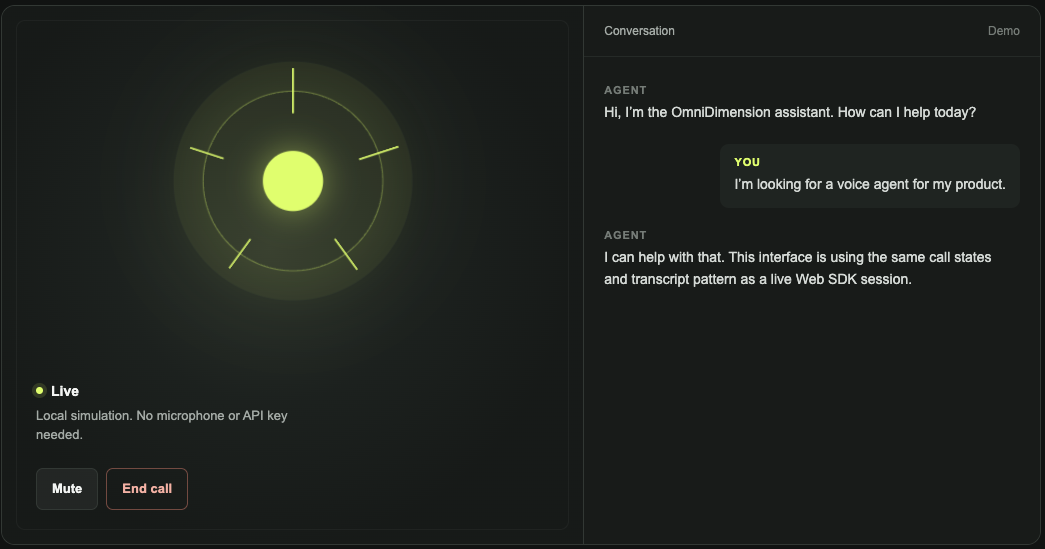
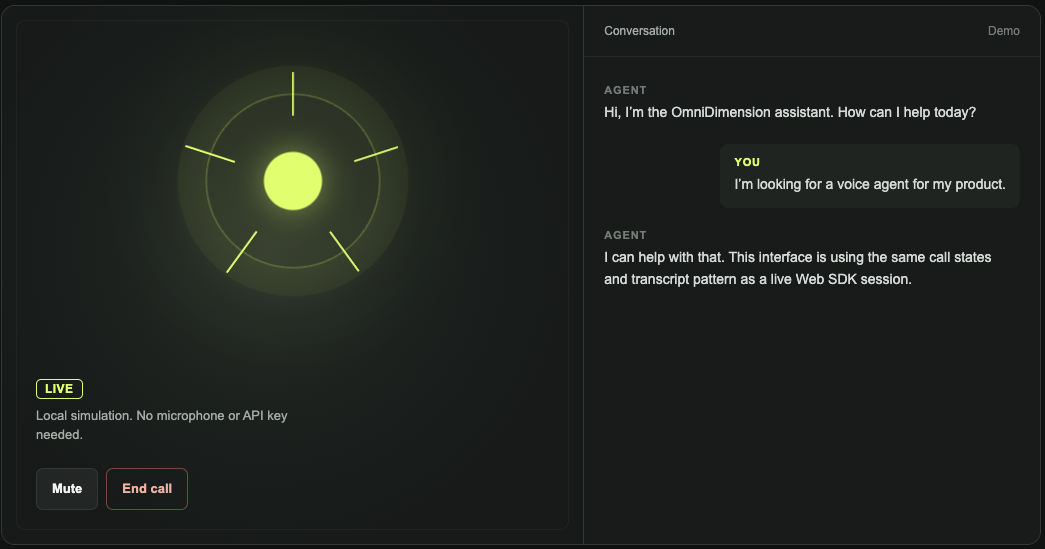
fix: state reads as a bordered label, not a coloured dot (#35)
A 7px dot carried the entire call state, so 'is this live' depended on telling
apart accent green, amber and red at that size. Colour-blind users get nothing
from it, and the label beside it was the only real signal.

Now the label itself is the control: a bordered uppercase pill that takes the
state colour on its border and text. Same information, readable without relying
on hue, and it still reads at a glance. README screenshot refreshed to match.

diff --git a/web-voice/src/app/styles.css b/web-voice/src/app/styles.css
@@ -48,7 +48,7 @@ h1 { max-width: 570px; margin: 0; font-size: clamp(2.5rem, 6vw, 4.7rem); letter-
 .orb-active span { animation: ripple 1.1s ease-in-out infinite alternate; }.orb-active span:nth-child(2) { animation-delay: .12s; }.orb-active span:nth-child(3) { animation-delay: .26s; }.orb-active span:nth-child(4) { animation-delay: .36s; }.orb-active span:nth-child(5) { animation-delay: .46s; }
 .orb-muted { border-color: rgba(239, 124, 107, .5); background: rgba(239, 124, 107, .08); }.orb-muted::before, .orb-muted span { background: var(--danger); }.orb-muted { box-shadow: 0 0 0 22px rgba(239, 124, 107, .025); }
 @keyframes breathe { 50% { transform: scale(1.04); } } @keyframes ripple { to { height: 52px; opacity: 1; } }
-.call-meta { position: relative; z-index: 1; margin-top: auto; }.status-line { display: flex; align-items: center; gap: 8px; font-size: 14px; font-weight: 600; }.status-dot { width: 7px; height: 7px; border-radius: 50%; background: var(--quiet); }.status-active { background: var(--accent); box-shadow: 0 0 0 4px rgba(216, 255, 80, .13); }.status-connecting { background: #ffca58; }.status-error { background: var(--danger); }.call-meta p { max-width: 290px; margin: 7px 0 0; color: var(--muted); font-size: 13px; line-height: 1.5; }
+.call-meta { position: relative; z-index: 1; margin-top: auto; }.status-line { display: flex; align-items: center; font-size: 14px; font-weight: 600; }.status-pill { border: 1px solid var(--quiet); border-radius: 5px; padding: 2px 8px; color: var(--quiet); font-size: 12px; font-weight: 700; letter-spacing: .04em; text-transform: uppercase; }.status-active { border-color: var(--accent); color: var(--accent); }.status-connecting { border-color: #ffca58; color: #ffca58; }.status-error { border-color: var(--danger); color: #ffada1; }.call-meta p { max-width: 290px; margin: 7px 0 0; color: var(--muted); font-size: 13px; line-height: 1.5; }
 .call-actions { position: relative; z-index: 1; display: flex; gap: 8px; width: 100%; margin-top: 23px; }.primary-action, .secondary-action, .end-action { min-height: 42px; border-radius: 7px; padding: 0 15px; border: 1px solid transparent; font-size: 13px; font-weight: 700; transition: transform .15s ease, background .15s ease; }.primary-action:active, .secondary-action:active, .end-action:active { transform: translateY(1px); }.primary-action { background: var(--accent); color: var(--accent-ink); }.primary-action:hover { background: #e0ff72; }.secondary-action { background: transparent; border-color: var(--line); color: var(--text); }.secondary-action:hover { background: rgba(255,255,255,.05); }.end-action { background: transparent; border-color: rgba(239,124,107,.45); color: #ffada1; }.end-action:hover { background: rgba(239,124,107,.1); }.secondary-action:disabled { cursor: wait; opacity: .45; }
 
 .transcript-panel { min-width: 0; min-height: 0; display: flex; flex-direction: column; overflow: hidden; background: var(--surface); border-left: 1px solid var(--line); }.panel-header { flex: 0 0 auto; display: flex; justify-content: space-between; padding: 18px 20px; border-bottom: 1px solid var(--line-subtle); color: var(--muted); font-size: 12px; }.panel-header span:last-child { color: var(--quiet); }.transcript { min-height: 0; flex: 1 1 auto; display: flex; flex-direction: column; gap: 21px; overflow-y: auto; overscroll-behavior: contain; padding: 27px 20px; scrollbar-color: var(--line) transparent; scrollbar-width: thin; }.agent-context { margin: -8px 0 1px; color: var(--quiet); font-size: 12px; line-height: 1.4; }.transcript-line { max-width: 95%; }.transcript-line > span { display: block; margin-bottom: 6px; color: var(--quiet); font-size: 11px; font-weight: 700; letter-spacing: .08em; text-transform: uppercase; }.transcript-line p { margin: 0; color: #d4dad6; font-size: 14px; line-height: 1.55; }.transcript-line.user { align-self: flex-end; padding: 12px 14px; border-radius: 9px; background: var(--surface-raised); }.transcript-line.user > span { color: var(--accent); }.call-error { margin: 0; color: #ffaba0; font-size: 13px; line-height: 1.45; }

diff --git a/web-voice/src/components/voice-console.tsx b/web-voice/src/components/voice-console.tsx
@@ -179,7 +179,7 @@ export function VoiceConsole({ agent }: { agent: AgentContext | null }) {
           <span />
         </div>
         <div className="call-meta">
-          <div className="status-line"><span className={`status-dot status-${callState}`} />{statusLabel}</div>
+          <div className="status-line"><span className={`status-pill status-${callState}`}>{statusLabel}</span></div>
           <p>{callDescription}</p>
         </div>
         <div className="call-actions">
